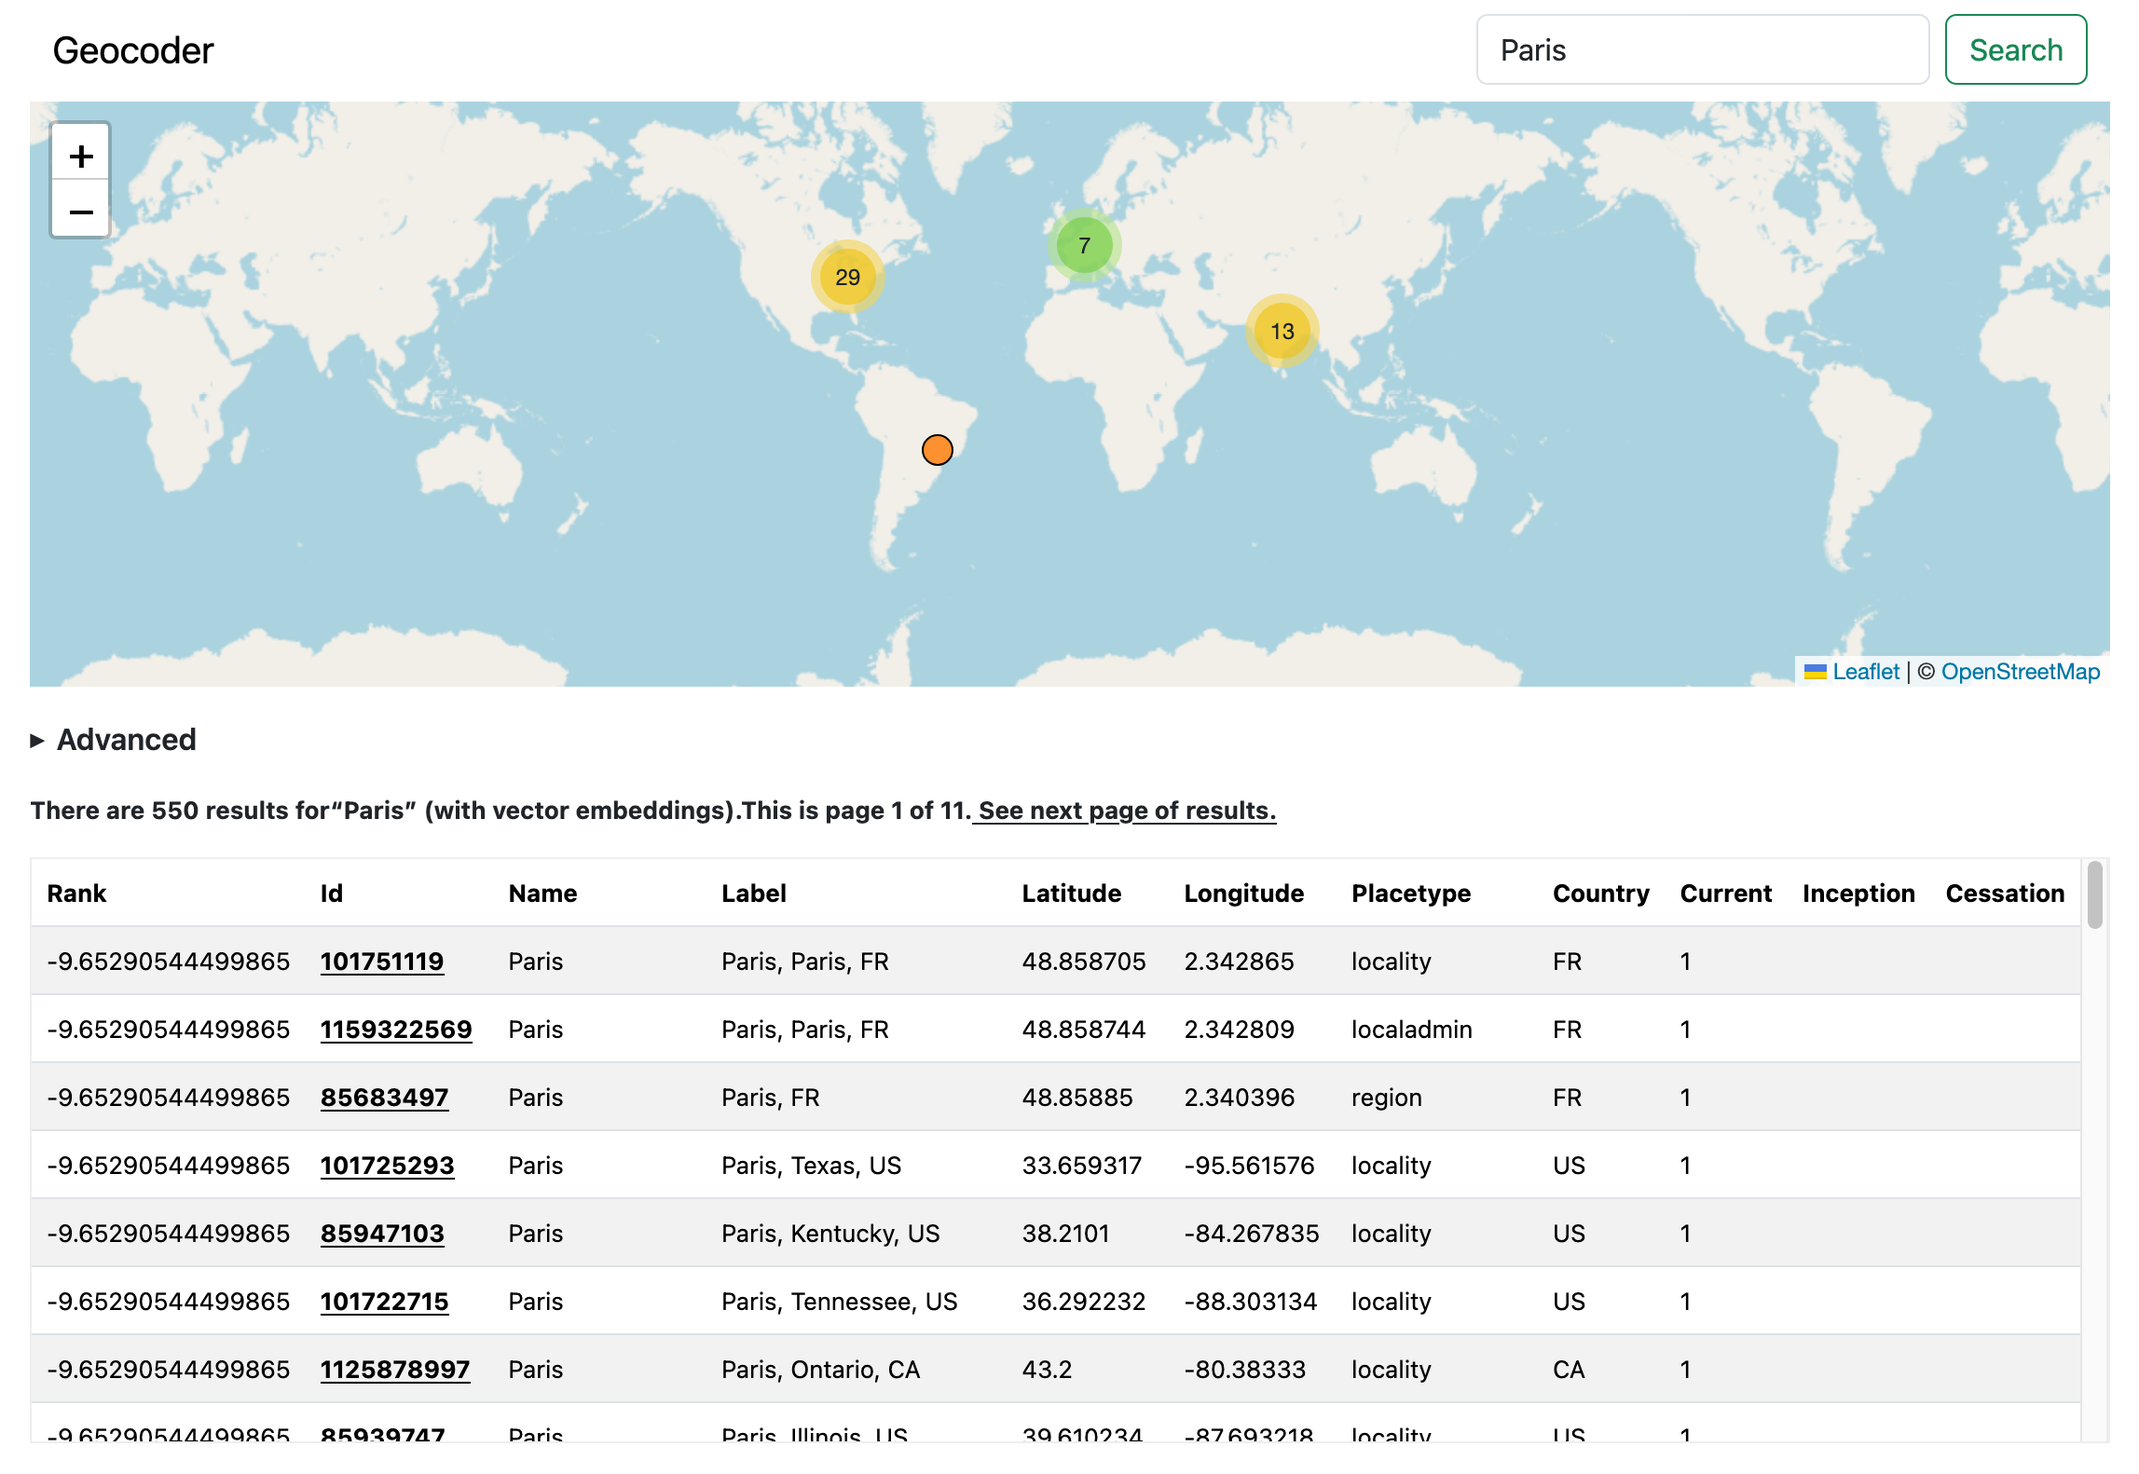
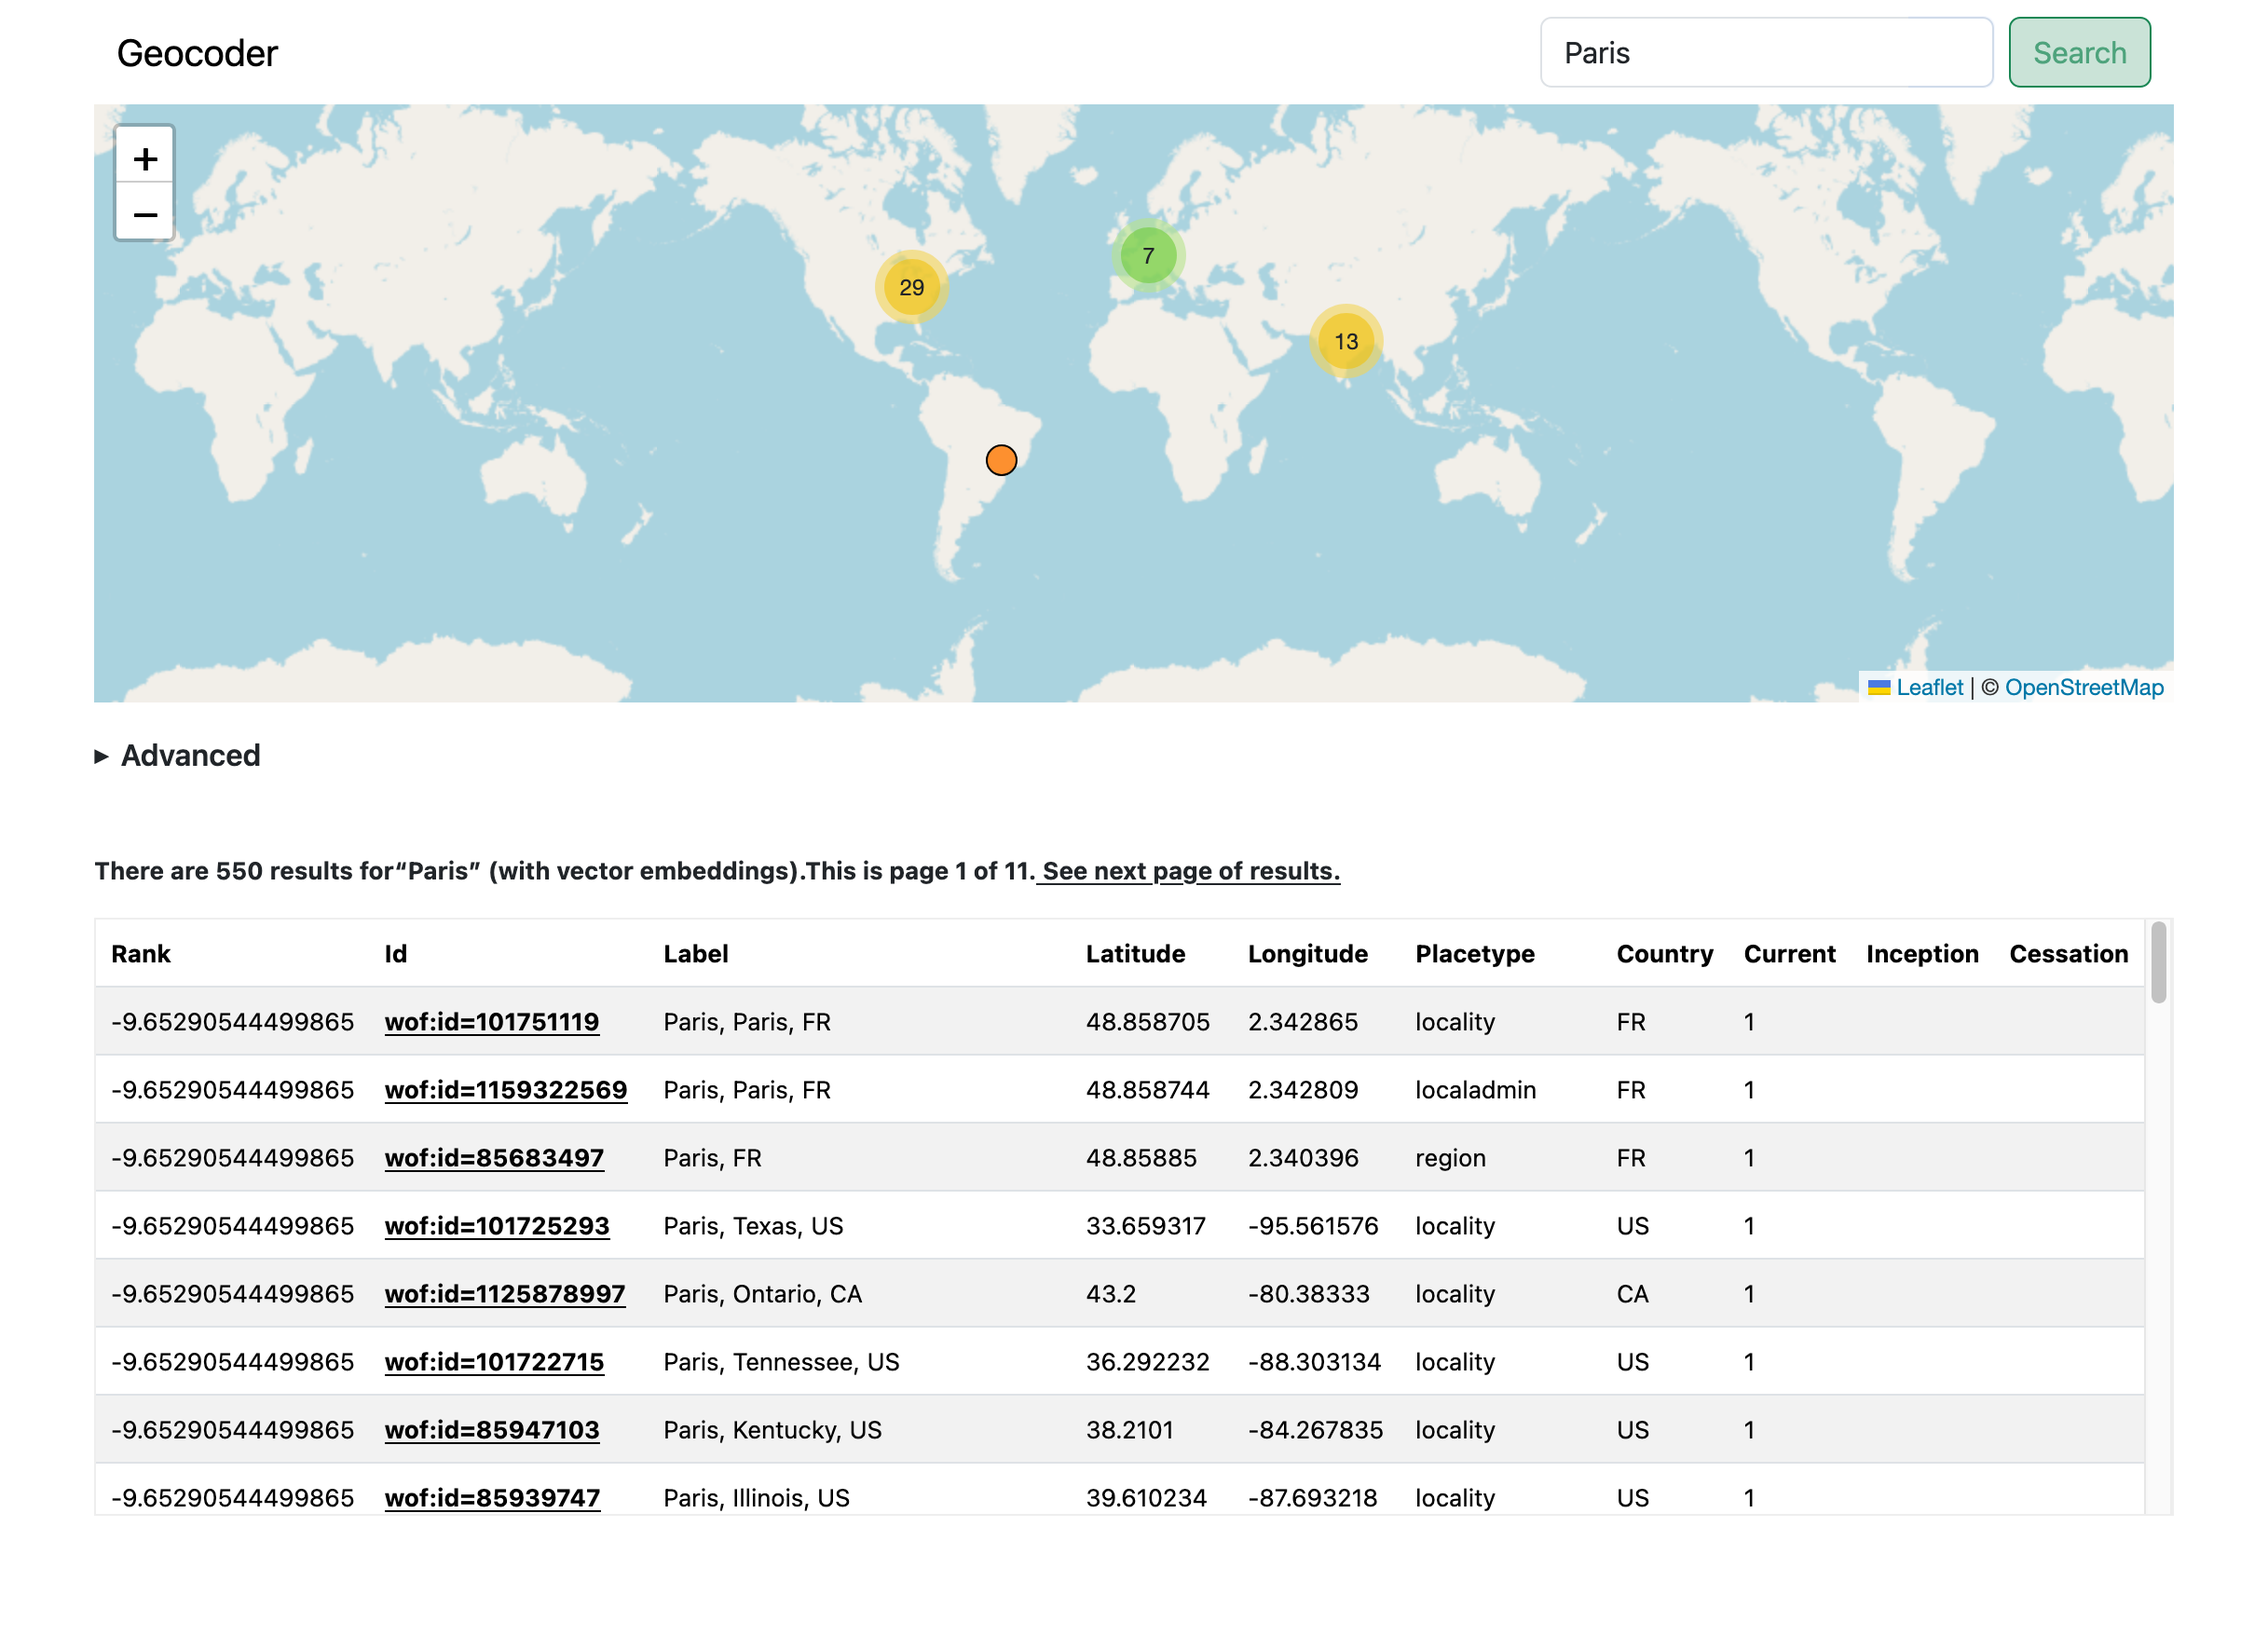
update docs

diff --git a/README.md b/README.md
@@ -479,7 +479,7 @@ $> curl -s 'http://localhost:8080/api/query/?query=SFO&placetype=airport' | jq
           "geocoder:id": "wof:id=102527513",
           "geocoder:label": "San Francisco International Airport, San Francisco, California, US",
           "geocoder:name": "San Francisco International Airport",
-          "wof:parent_id": 85922583,
+          "geocoder:parent_id": 85922583,
           "wof:placetype": "campus",
           "wof:placetype_alt": [
             "airport"
